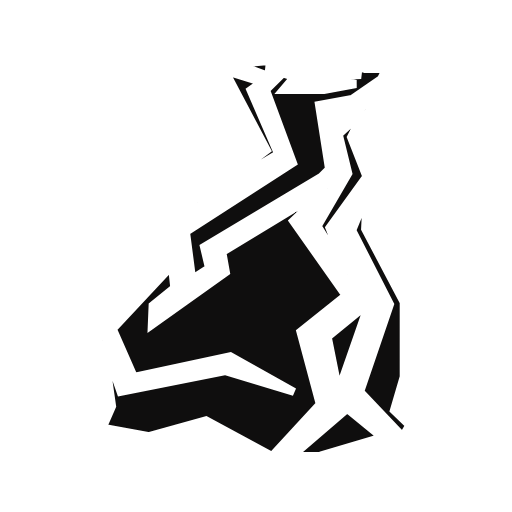
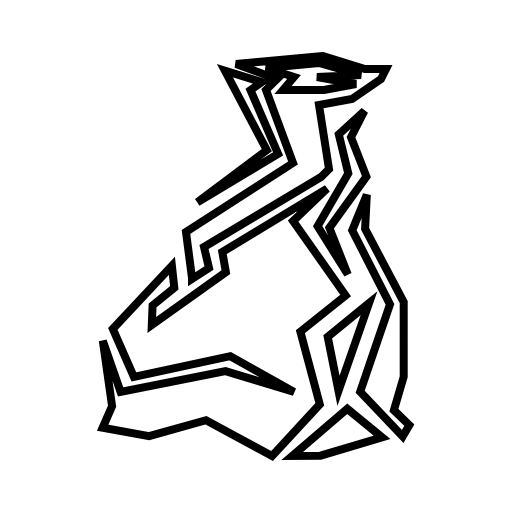
bag states; black bag, white bag;

Changed region(s): [[0.1875, 0.0938, 0.8125, 0.9062]]

diff --git a/src/assets/duke/index.js b/src/assets/duke/index.js
@@ -28,6 +28,12 @@ import SeerFront from './seer_front.png';
 import SeerBack from './seer_back.png';
 import WizardFront from './wizard_front.png';
 import WizardBack from './wizard_back.png';
+import BagClosed from './paper-bag-folded.png'
+import BagClosedBlack from './paper-bag-folded-black.png'
+import BagOpen from './paper-bag-open.png'
+import BagOpenBlack from './paper-bag-open-black.png'
+import BagEmpty from './paper-bag-crumpled.png'
+import BagEmptyBlack from './paper-bag-crumpled-black.png'
 
 const loaded = {
   AssassinFront: false,
@@ -60,6 +66,12 @@ const loaded = {
   SeerBack: false,
   WizardFront: false,
   WizardBack: false,
+  BagClosed: false,
+  BagOpen: false,
+  BagEmpty: false,
+  BagClosedBlack: false,
+  BagOpenBlack: false,
+  BagEmptyBlack: false,
 }
 
 const AssassinFrontElement = window.document.createElement('img');
@@ -242,12 +254,49 @@ WizardBackElement.onload = () => {
   loaded.WizardBack = true;
 }
 
+const BagClosedElement = window.document.createElement('img');
+BagClosedElement.src = BagClosed;
+BagClosedElement.onload = () => {
+  loaded.BagClosed = true;
+}
+
+const BagOpenElement = window.document.createElement('img');
+BagOpenElement.src = BagOpen;
+BagOpenElement.onload = () => {
+  loaded.BagOpen = true;
+}
+
+const BagEmptyElement = window.document.createElement('img');
+BagEmptyElement.src = BagEmpty;
+BagEmptyElement.onload = () => {
+  loaded.BagEmpty = true;
+}
+
+const BagClosedElementBlack = window.document.createElement('img');
+BagClosedElementBlack.src = BagClosedBlack;
+BagClosedElementBlack.onload = () => {
+  loaded.BagClosedBlack = true;
+}
+
+const BagOpenElementBlack = window.document.createElement('img');
+BagOpenElementBlack.src = BagOpenBlack;
+BagOpenElementBlack.onload = () => {
+  loaded.BagOpenBlack = true;
+}
+
+const BagEmptyElementBlack = window.document.createElement('img');
+BagEmptyElementBlack.src = BagEmptyBlack;
+BagEmptyElementBlack.onload = () => {
+  loaded.BagEmptyBlack = true;
+}
+
 function allLoaded() {
   return Object.values(loaded).every(value => value);
 }
 
 export default {
   allLoaded,
+  // Duke tile images
   AssassinFrontElement,
   AssassinBackElement,
   BowmanFrontElement,
@@ -278,5 +327,12 @@ export default {
   SeerBackElement,
   WizardFrontElement,
   WizardBackElement,
+  // bag images
+  BagClosedElement,
+  BagOpenElement,
+  BagEmptyElement,
+  BagClosedElementBlack,
+  BagOpenElementBlack,
+  BagEmptyElementBlack,
 }
 

diff --git a/src/components/Bag.svelte b/src/components/Bag.svelte
@@ -1,5 +1,5 @@
 <script>
-  import { Image, Rect } from 'svelte-konva';
+  import { Image } from 'svelte-konva';
   import DukeImages from '../assets/duke/index';
   import { getContext } from 'svelte';
 
@@ -9,6 +9,21 @@
   export let config;
   export let updateGameDataItemFromEvent;
   export let sendGameData;
+
+  function openCloseBag(event) {
+    const shape = event.detail.target;
+    const bag = shape.attrs;
+    if (bag.state == 'empty') return;
+
+    const isOpen = bag.state === 'open';
+
+    updateGameDataItemFromEvent({
+      attrs: {
+        state: isOpen ? 'closed' : 'open',
+      },
+      konvaShape: shape,
+    });
+  }
 
   function handleDoubleClickBag(event) {
     const shape = event.detail.target;
@@ -26,7 +41,7 @@
     const tile = bag.tiles[randomIndex];
     const updatedBagTiles = bag.tiles.filter((_, index) => index !== randomIndex);
     const updatedTiles = [...$gameData.tiles, tile];
-
+    const isEmpty = !!!updatedBagTiles.length;
     gameData.set({
       ...$gameData,
       tiles: updatedTiles,
@@ -34,11 +49,22 @@
         if (bag.id !== bagId) return bag;
         return {
           ...bag,
+          state: isEmpty ? 'empty' : bag.state,
           tiles: updatedBagTiles,
         }
       }),
     })
 
+    sendGameData();
+  }
+
+  function handleMouseOut(event) {
+    openCloseBag(event);
+    sendGameData();
+  }
+
+  function handleMouseOver(event) {
+    openCloseBag(event);
     sendGameData();
   }
 
@@ -62,9 +88,14 @@
 
 </script>
 
-<Rect 
-  {config}
+<Image
+  config={{
+    ...config,
+    image: DukeImages[config.images[config.state || 'closed']],
+  }}
   on:dragmove={handleDragMove}
   on:dragend={handleDragEnd}
   on:dblclick={handleDoubleClickBag}
+  on:mouseover={handleMouseOver}
+  on:mouseout={handleMouseOut}
 />

diff --git a/src/components/pages/KonvaPlay.svelte b/src/components/pages/KonvaPlay.svelte
@@ -9,6 +9,7 @@
   import { onMount } from 'svelte';
   import Tile from '../Tile.svelte';
   import Bag from '../Bag.svelte';
+    import { empty, is_empty } from 'svelte/internal';
 
   let roomId = '';
   let loaded = false;
@@ -43,6 +44,7 @@
       y: y || randomY,
       width: 90,
       height: 90,
+      upsideDown,
       // rotation: upsideDown ? 180 : 0,
       scaleY: upsideDown ? -1 : 1,
       scaleX: upsideDown ? -1 : 1,
@@ -73,7 +75,13 @@
       y,
       width: 100,
       height: 100,
-      fill: color,
+      images: {
+        closed: upsideDown ? 'BagClosedElement' : 'BagClosedElementBlack',
+        open: upsideDown ? 'BagOpenElement' : 'BagOpenElementBlack',
+        empty: upsideDown ? 'BagEmptyElement' : 'BagEmptyElementBlack',
+      },
+      state: 'closed',
+      upsideDown,
       draggable: true,
       gameDataPath: 'bags',
       tiles: [
